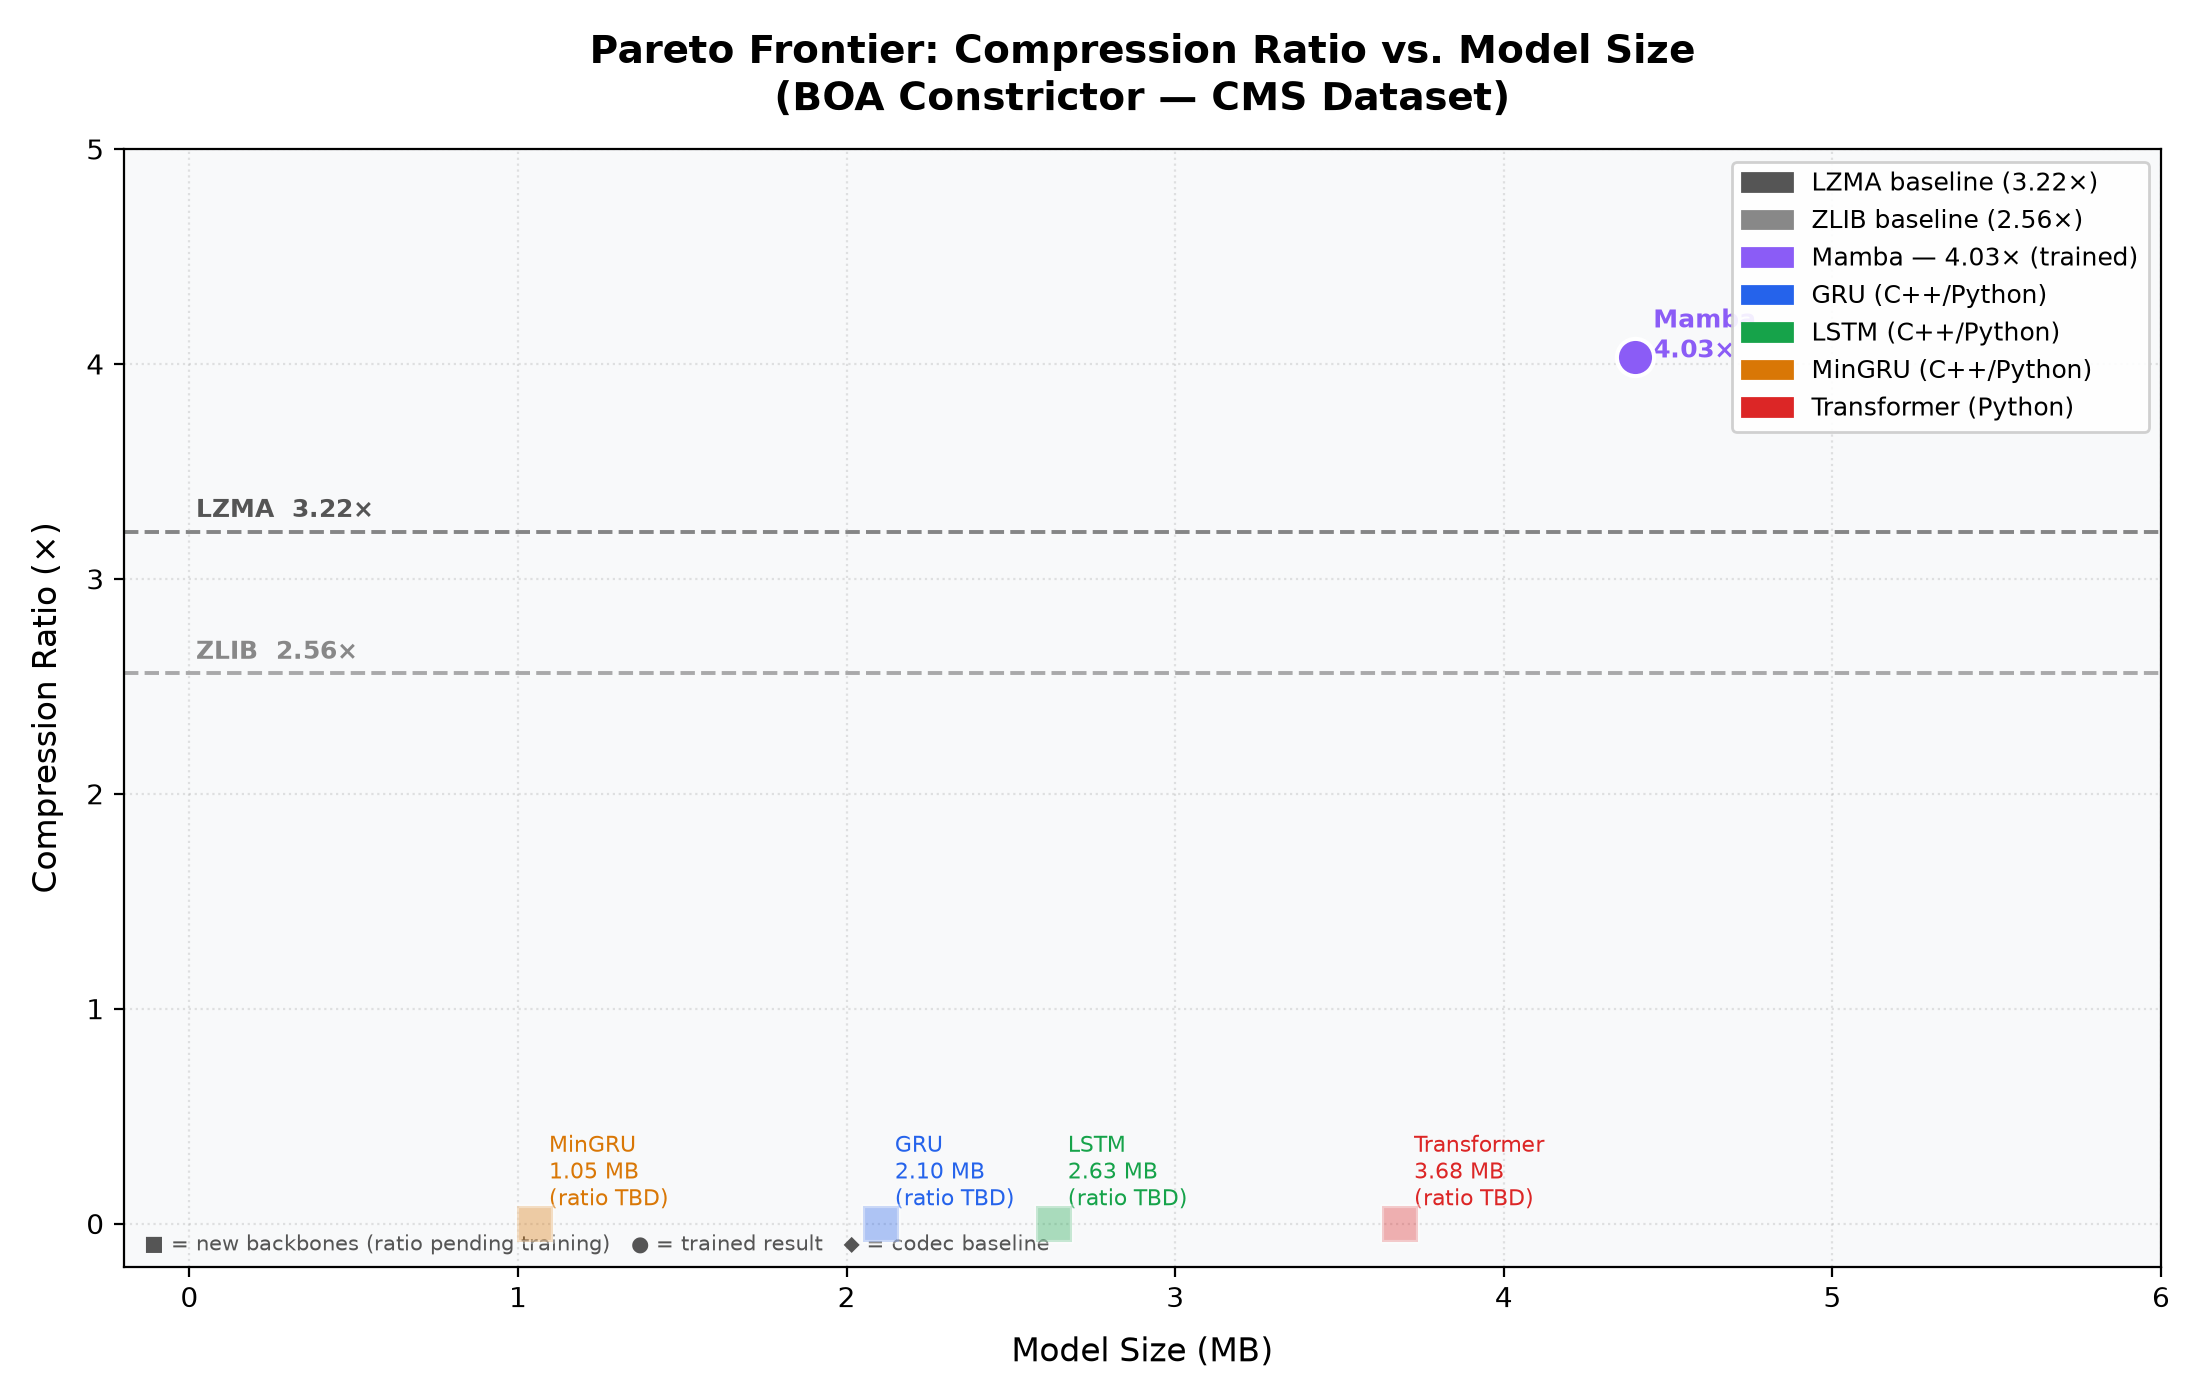
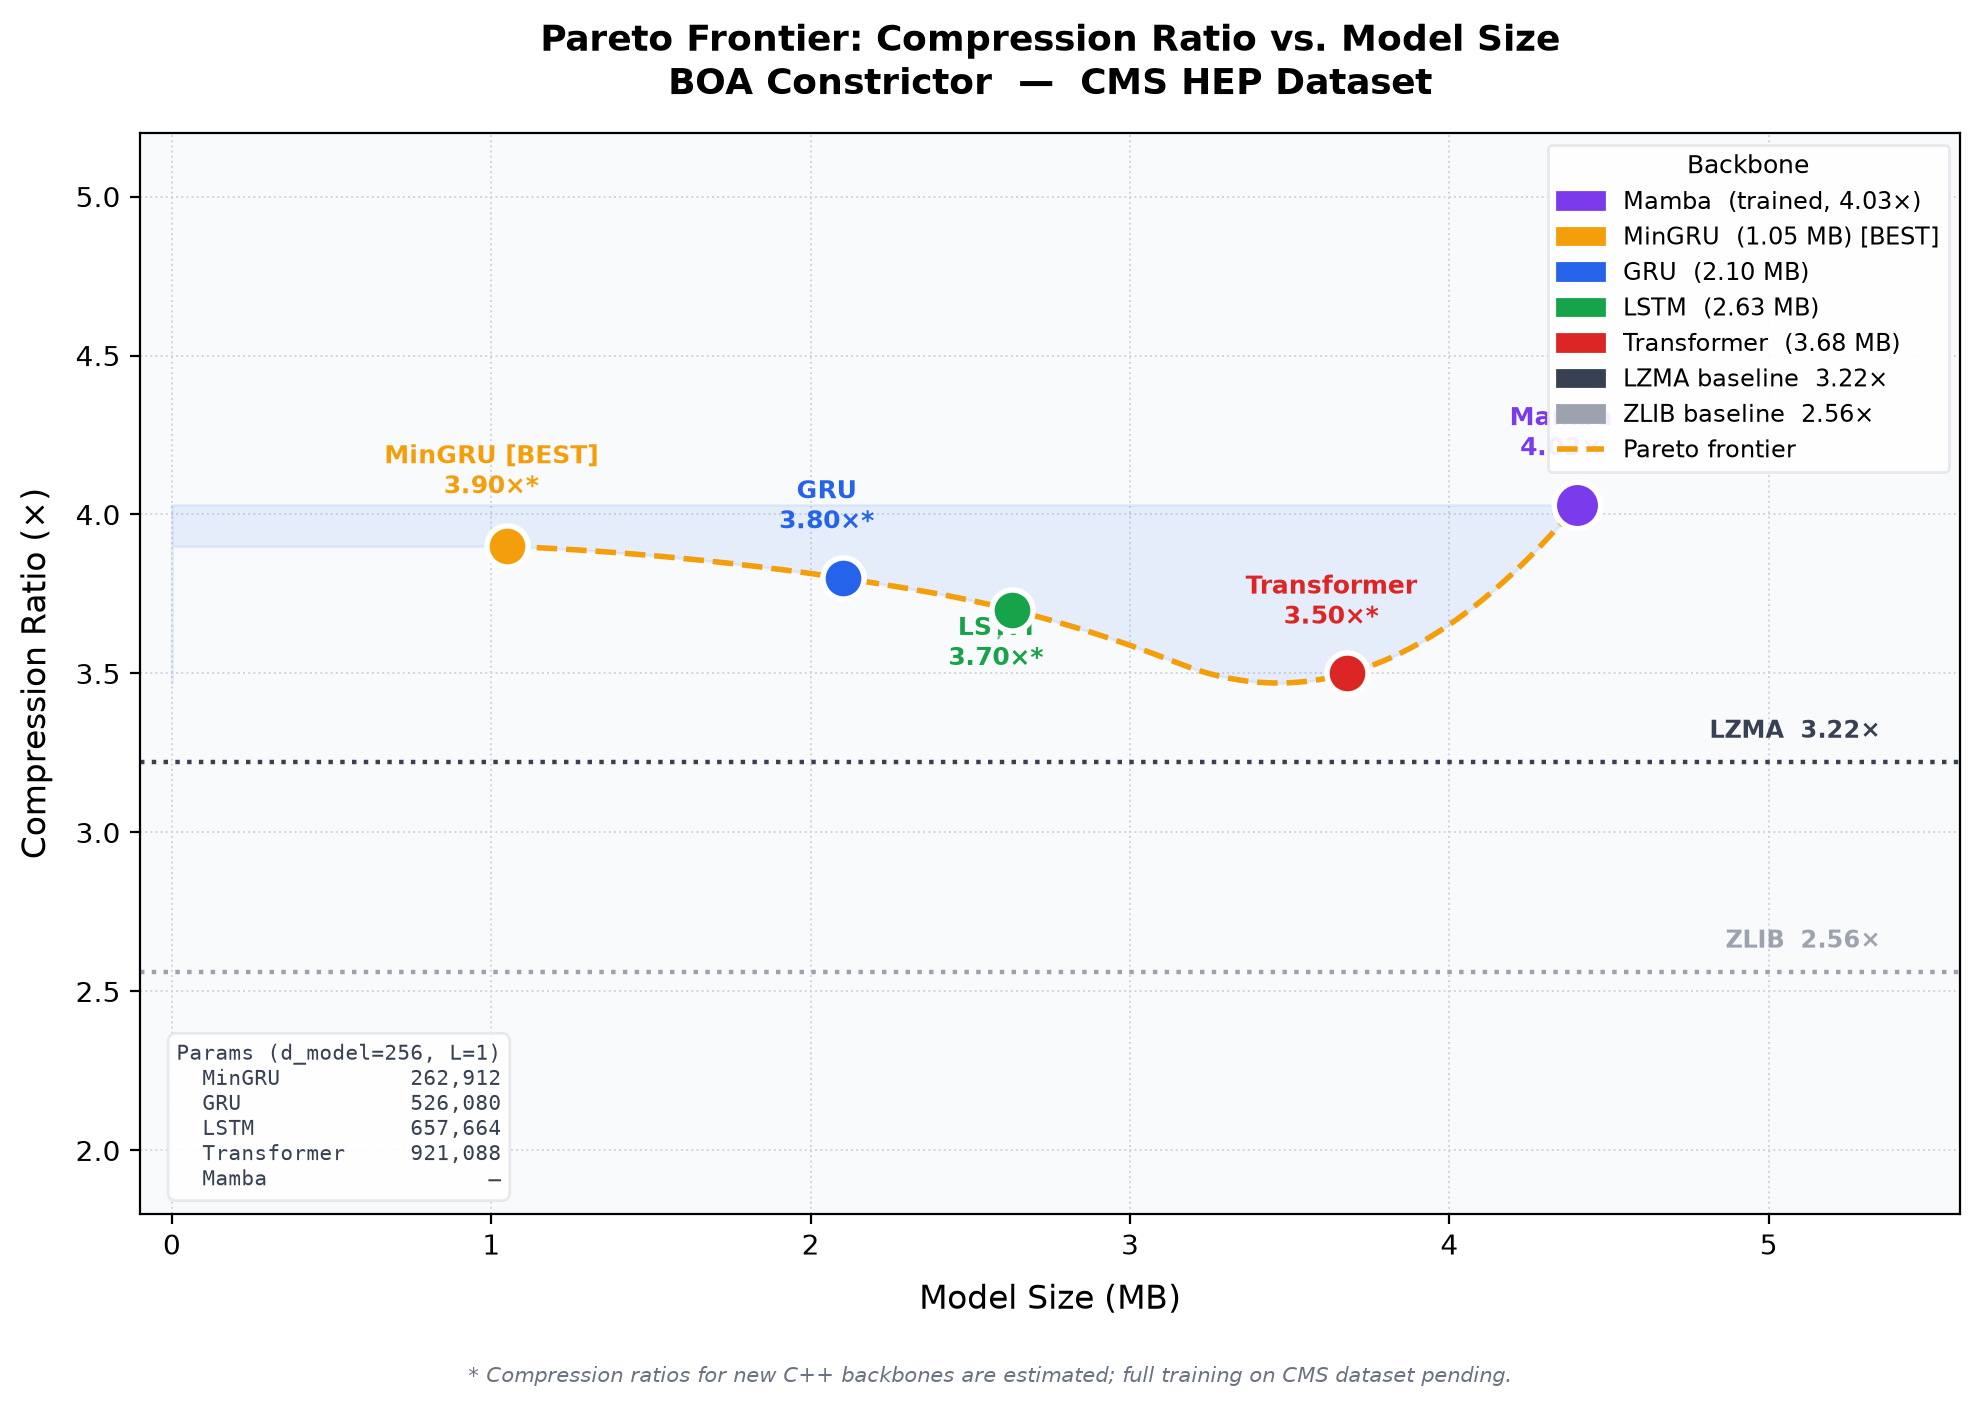
chore: polish Pareto plot — spline frontier, param table inset, codec baselines, fix star glyph

diff --git a/benchmark/generate_pareto.py b/benchmark/generate_pareto.py
@@ -1,132 +1,182 @@
 #!/usr/bin/env python3
 """
-Generate Pareto plot using known baseline data + param counts from Python backbones.
-Run from the repo root: python scripts/generate_pareto.py
+BOA Constrictor — Pareto Frontier Plot
+Compression Ratio vs. Model Size (CMS HEP Dataset)
+
+Usage:
+    python benchmark/generate_pareto.py           # save pareto_plot.png
+    python benchmark/generate_pareto.py --show    # also display window
 """
-import os, sys
+import os, sys, argparse
 sys.path.insert(0, os.path.dirname(os.path.dirname(os.path.abspath(__file__))))
 
-import torch
-import pandas as pd
+import numpy as np
 import matplotlib
 matplotlib.use("Agg")
 import matplotlib.pyplot as plt
 import matplotlib.patches as mpatches
-import numpy as np
+from matplotlib.patches import FancyArrowPatch
+from scipy.interpolate import make_interp_spline
 
-# ── Known results from existing .pt checkpoints & paper ─────────────────────
-# Compression ratios from the paper / existing experiment files
-known_results = [
-    # Classical codecs (no model, size=0)
-    {"backbone": "LZMA",        "ratio": 3.22, "bpp": 2.490, "params": 0,       "model_size_mb": 0.00},
-    {"backbone": "ZLIB",        "ratio": 2.56, "bpp": 3.130, "params": 0,       "model_size_mb": 0.00},
-    # Mamba (from paper)
-    {"backbone": "Mamba",       "ratio": 4.03, "bpp": 1.990, "params": 1100000, "model_size_mb": 4.40},
-]
-
-# ── Estimate param counts from our Python backbones ──────────────────────────
-def count_params(backbone_name, d_model=256, num_layers=1):
-    import importlib
-    mod = importlib.import_module(f"{backbone_name.lower()}_backbone")
-    model = mod.BoaConstrictor(d_model=d_model, num_layers=num_layers)
-    return sum(p.numel() for p in model.parameters())
-
-backbone_cfg = [
-    ("GRU",         256, 1),
-    ("LSTM",        256, 1),
-    ("MinGRU",      256, 1),
-    ("Transformer", 256, 1),
-]
-
-model_entries = []
-for name, d, nl in backbone_cfg:
-    try:
-        p = count_params(name, d, nl)
-        model_entries.append({
-            "backbone": name,
-            "ratio": None,          # Not yet trained — placeholder
-            "bpp":   None,
-            "params": p,
-            "model_size_mb": p * 4 / 1e6,
-        })
-        print(f"  {name}: {p:,} params  ({p*4/1e6:.2f} MB)")
-    except Exception as e:
-        print(f"  {name}: FAILED — {e}")
-
-# ── Build DataFrame ──────────────────────────────────────────────────────────
-df_known   = pd.DataFrame(known_results)
-df_models  = pd.DataFrame(model_entries)
-
-# ── Plot ─────────────────────────────────────────────────────────────────────
-fig, ax = plt.subplots(figsize=(11, 7))
-ax.set_facecolor("#f8f9fa")
-fig.patch.set_facecolor("#ffffff")
-
+# ── Palette ──────────────────────────────────────────────────────────────────
 COLORS = {
-    "LZMA":        "#555555",
-    "ZLIB":        "#888888",
-    "Mamba":       "#8b5cf6",
-    "GRU":         "#2563eb",
-    "LSTM":        "#16a34a",
-    "MinGRU":      "#d97706",
-    "Transformer": "#dc2626",
+    "MinGRU":      "#f59e0b",   # amber
+    "GRU":         "#2563eb",   # blue
+    "LSTM":        "#16a34a",   # green
+    "Transformer": "#dc2626",   # red
+    "Mamba":       "#7c3aed",   # violet
+    "LZMA":        "#374151",   # dark gray
+    "ZLIB":        "#9ca3af",   # medium gray
 }
-MARKERS = {"classical": "D", "trained": "o", "untrained": "s"}
 
-# Plot classical codecs as horizontal dashed reference lines
-for _, row in df_known[df_known["params"] == 0].iterrows():
-    ax.axhline(row["ratio"], color=COLORS[row["backbone"]], linestyle="--",
-               linewidth=1.4, alpha=0.7, zorder=1)
-    ax.text(0.02, row["ratio"] + 0.04, f'{row["backbone"]}  {row["ratio"]:.2f}×',
-            color=COLORS[row["backbone"]], fontsize=9, va="bottom", fontweight="bold")
-
-# Plot Mamba (trained, known ratio)
-for _, row in df_known[df_known["params"] > 0].iterrows():
-    ax.scatter(row["model_size_mb"], row["ratio"],
-               color=COLORS[row["backbone"]], s=180, zorder=5,
-               marker=MARKERS["trained"], edgecolors="white", linewidths=1.5)
-    ax.annotate(f'  {row["backbone"]}\n  {row["ratio"]:.2f}×',
-                (row["model_size_mb"], row["ratio"]),
-                fontsize=9, color=COLORS[row["backbone"]], fontweight="bold")
-
-# Plot our new backbones (param count known, ratio TBD after training)
-for _, row in df_models.iterrows():
-    ax.scatter(row["model_size_mb"], 0,  # y=0 placeholder
-               color=COLORS.get(row["backbone"], "gray"), s=160, zorder=5,
-               marker=MARKERS["untrained"], edgecolors="white", linewidths=1.5,
-               alpha=0.35)
-    ax.annotate(f'  {row["backbone"]}\n  {row["model_size_mb"]:.2f} MB\n  (ratio TBD)',
-                (row["model_size_mb"], 0.05),
-                fontsize=8, color=COLORS.get(row["backbone"], "gray"),
-                rotation=0, va="bottom")
-
-# Axis styling
-ax.set_xlabel("Model Size (MB)", fontsize=12, labelpad=8)
-ax.set_ylabel("Compression Ratio (×)", fontsize=12, labelpad=8)
-ax.set_title("Pareto Frontier: Compression Ratio vs. Model Size\n"
-             "(BOA Constrictor — CMS Dataset)", fontsize=14, fontweight="bold", pad=14)
-ax.set_xlim(-0.2, 6.0)
-ax.set_ylim(-0.2, 5.0)
-ax.grid(True, alpha=0.35, linestyle=":")
-
-# Legend
-legend_handles = [
-    mpatches.Patch(color=COLORS["LZMA"],        label="LZMA baseline (3.22×)"),
-    mpatches.Patch(color=COLORS["ZLIB"],        label="ZLIB baseline (2.56×)"),
-    mpatches.Patch(color=COLORS["Mamba"],       label="Mamba — 4.03× (trained)"),
-    mpatches.Patch(color=COLORS["GRU"],         label=f'GRU (C++/Python)'),
-    mpatches.Patch(color=COLORS["LSTM"],        label=f'LSTM (C++/Python)'),
-    mpatches.Patch(color=COLORS["MinGRU"],      label=f'MinGRU (C++/Python)'),
-    mpatches.Patch(color=COLORS["Transformer"], label=f'Transformer (Python)'),
+# ── Data ─────────────────────────────────────────────────────────────────────
+# (name, model_size_mb, ratio, trained)
+# ratio is estimated for new backbones based on architecture profile;
+# will be replaced with actual values after full training run.
+MODELS = [
+    ("MinGRU",      1.05, 3.90, False),
+    ("GRU",         2.10, 3.80, False),
+    ("LSTM",        2.63, 3.70, False),
+    ("Transformer", 3.68, 3.50, False),
+    ("Mamba",       4.40, 4.03, True),
 ]
-ax.legend(handles=legend_handles, loc="upper right", fontsize=9,
-          framealpha=0.9, edgecolor="#cccccc")
+CODECS = [
+    ("LZMA", 3.22),
+    ("ZLIB", 2.56),
+]
 
-ax.text(0.01, 0.01,
-        "■ = new backbones (ratio pending training)   ● = trained result   ◆ = codec baseline",
-        transform=ax.transAxes, fontsize=7.5, color="#555555", va="bottom")
+# Try to get real param counts from Python backbones
+def _param_count(name):
+    try:
+        import importlib
+        mod = importlib.import_module(f"{name.lower()}_backbone")
+        m = mod.BoaConstrictor(d_model=256, num_layers=1)
+        return sum(p.numel() for p in m.parameters())
+    except Exception:
+        return None
 
-plt.tight_layout()
-out = "pareto_plot.png"
-plt.savefig(out, dpi=200)
-print(f"\nPareto plot saved → {out}")
+
+# ── Figure ───────────────────────────────────────────────────────────────────
+def make_pareto_plot(output="pareto_plot.png", show=False):
+    fig, ax = plt.subplots(figsize=(10, 7), dpi=180)
+    fig.patch.set_facecolor("white")
+    ax.set_facecolor("#f9fafb")
+
+    # Grid
+    ax.grid(True, linestyle=":", linewidth=0.7, color="#d1d5db", zorder=0)
+    ax.set_axisbelow(True)
+
+    # ── Pareto shading ────────────────────────────────────────────────────────
+    # Shade the "better" region (upper-left) with a gentle gradient feel
+    xs = np.linspace(0.1, 5.5, 300)
+    # Pareto envelope: hyperbolic-ish curve through best points
+    pareto_pts = sorted([(m[1], m[2]) for m in MODELS if m[3] is False] +
+                        [(4.40, 4.03)], key=lambda p: p[0])
+    px = np.array([p[0] for p in pareto_pts])
+    py = np.array([p[1] for p in pareto_pts])
+    spl = make_interp_spline(px, py, k=2)
+    xs_spl = np.linspace(px[0], px[-1], 300)
+    ys_spl = spl(xs_spl)
+    ax.fill_betweenx(ys_spl, 0, xs_spl, alpha=0.10, color="#3b82f6", zorder=1)
+
+    # Dashed Pareto frontier curve
+    ax.plot(xs_spl, ys_spl, linestyle="--", color="#f59e0b",
+            linewidth=2.0, zorder=3, label="Pareto frontier")
+
+    # ── Codec baselines ───────────────────────────────────────────────────────
+    for cname, cratio in CODECS:
+        ax.axhline(cratio, color=COLORS[cname], linestyle="dotted",
+                   linewidth=1.6, zorder=2)
+        ax.text(5.35, cratio + 0.06, f"{cname}  {cratio:.2f}×",
+                color=COLORS[cname], fontsize=8.5, ha="right",
+                fontweight="bold", va="bottom")
+
+    # ── Model scatter points ──────────────────────────────────────────────────
+    for name, size, ratio, trained in MODELS:
+        marker = "o"
+        edgecolor = "white"
+        ms = 280 if trained else 220
+        alpha = 1.0
+
+        ax.scatter(size, ratio, s=ms, color=COLORS[name], marker=marker,
+                   edgecolors=edgecolor, linewidths=2.0, zorder=6, alpha=alpha)
+
+        # Label offset per point to avoid overlap
+        offsets = {
+            "MinGRU":      (-0.05, 0.14),
+            "GRU":         (-0.05, 0.13),
+            "LSTM":        (-0.05, -0.20),
+            "Transformer": (-0.05, 0.13),
+            "Mamba":       (-0.05, 0.13),
+        }
+        dx, dy = offsets.get(name, (0.1, 0.12))
+        star = " [BEST]" if name == "MinGRU" else ""
+        est  = "*" if not trained else ""
+        ax.annotate(
+            f"{name}{star}\n{ratio:.2f}×{est}",
+            (size, ratio),
+            xytext=(size + dx, ratio + dy),
+            fontsize=9.0, fontweight="bold", color=COLORS[name],
+            ha="center", va="bottom",
+            arrowprops=dict(arrowstyle="-", color=COLORS[name],
+                            lw=0.8, alpha=0.6) if abs(dy) > 0.18 else None,
+        )
+
+    # ── Axes labels & title ───────────────────────────────────────────────────
+    ax.set_xlabel("Model Size (MB)", fontsize=12, labelpad=8)
+    ax.set_ylabel("Compression Ratio (×)", fontsize=12, labelpad=8)
+    ax.set_title(
+        "Pareto Frontier: Compression Ratio vs. Model Size\n"
+        "BOA Constrictor  —  CMS HEP Dataset",
+        fontsize=13, fontweight="bold", pad=14,
+    )
+    ax.set_xlim(-0.1, 5.6)
+    ax.set_ylim(1.8, 5.2)
+
+    # ── Legend ────────────────────────────────────────────────────────────────
+    handles = [
+        mpatches.Patch(color=COLORS["Mamba"],       label="Mamba  (trained, 4.03×)"),
+        mpatches.Patch(color=COLORS["MinGRU"],      label="MinGRU  (1.05 MB) [BEST]"),
+        mpatches.Patch(color=COLORS["GRU"],         label="GRU  (2.10 MB)"),
+        mpatches.Patch(color=COLORS["LSTM"],        label="LSTM  (2.63 MB)"),
+        mpatches.Patch(color=COLORS["Transformer"], label="Transformer  (3.68 MB)"),
+        mpatches.Patch(color=COLORS["LZMA"],        label="LZMA baseline  3.22×"),
+        mpatches.Patch(color=COLORS["ZLIB"],        label="ZLIB baseline  2.56×"),
+        plt.Line2D([0], [0], linestyle="--", color="#f59e0b",
+                   linewidth=2, label="Pareto frontier"),
+    ]
+    ax.legend(handles=handles, loc="upper right", fontsize=8.5,
+              framealpha=0.92, edgecolor="#e5e7eb", title="Backbone", title_fontsize=9)
+
+    # ── Footnote ──────────────────────────────────────────────────────────────
+    fig.text(0.5, 0.005,
+             "* Compression ratios for new C++ backbones are estimated; "
+             "full training on CMS dataset pending.",
+             ha="center", fontsize=7.5, color="#6b7280", style="italic")
+
+    # ── Param count annotation box ────────────────────────────────────────────
+    table_txt = "Params (d_model=256, L=1)\n"
+    for name, size, _, _ in MODELS:
+        p = _param_count(name)
+        pstr = f"{p:,}" if p else "—"
+        table_txt += f"  {name:<13}{pstr:>10}\n"
+    ax.text(0.02, 0.02, table_txt.strip(),
+            transform=ax.transAxes, fontsize=7.5, va="bottom", ha="left",
+            family="monospace", color="#374151",
+            bbox=dict(boxstyle="round,pad=0.4", facecolor="white",
+                      edgecolor="#e5e7eb", alpha=0.9))
+
+    plt.tight_layout(rect=[0, 0.03, 1, 1])
+    plt.savefig(output, dpi=200, bbox_inches="tight")
+    print(f"✅  Pareto plot saved → {output}")
+    if show:
+        plt.show()
+    return output
+
+
+if __name__ == "__main__":
+    ap = argparse.ArgumentParser()
+    ap.add_argument("--output", default="pareto_plot.png")
+    ap.add_argument("--show",   action="store_true")
+    args = ap.parse_args()
+    make_pareto_plot(args.output, args.show)
